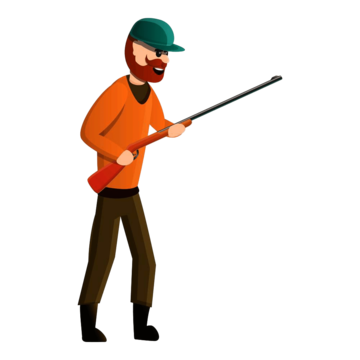
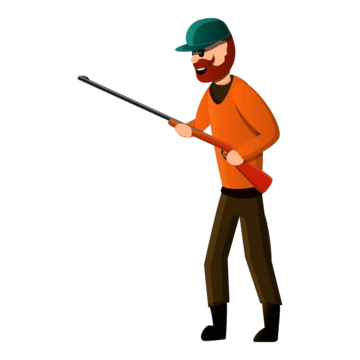
placed hunter and added bullet

Changed region(s): [[0.2139, 0.0306, 0.7944, 0.9778]]

diff --git a/04_AI/04_AI/main.cpp b/04_AI/04_AI/main.cpp
@@ -14,7 +14,7 @@
 #define GL_GLEXT_PROTOTYPES 1
 #define FIXED_TIMESTEP 0.0166666f
 #define PLATFORM_COUNT 11
-#define ENEMY_COUNT 3
+#define ENEMY_COUNT 4
 #define LEVEL1_WIDTH 20
 #define LEVEL1_HEIGHT 8
 #define LEFT_EDGE 5.0f
@@ -76,7 +76,8 @@ TILESET_FILEPATH[] = "assets/winterTileSheet1.png",
 //TILESET_FILEPATH[] = "assets/tileset.png",
 VULTURESHEET_FILEPATH[] = "assets/vulture_static.png",
 FOXSHEET_FILEPATH[] = "assets/fox_static.png",
-HUNTERSHEET_FILEPATH[] = "assets/hunter_static.png";
+HUNTERSHEET_FILEPATH[] = "assets/hunter_static.png",
+BULLETSHEET_FILEPATH[] = "assets/bullet.png";
 
 constexpr char BGM_FILEPATH[] = "assets/dooblydoo.mp3",
 SFX_FILEPATH[] = "assets/bounce.wav";
@@ -107,8 +108,8 @@ unsigned int LEVEL_1_DATA[] = {
     19, 0, 0, 0, 0, 0, 0, 0, 0, 0, 0, 0, 0, 0, 0, 0, 0, 0, 0, 19,
     19, 0, 0, 0, 14, 15, 16, 0, 0, 0, 0, 0, 0, 0, 0, 0, 0, 0, 0, 19,
     19, 0, 0, 0, 0, 0, 0, 0, 0, 0, 0, 0, 0, 0, 0, 0, 0, 0, 0, 19,
-    19, 0, 0, 0, 0, 0, 0, 1, 3, 0, 0, 0, 0, 0, 0, 0, 0, 0, 0, 19,
-    19, 2, 2, 2, 2, 2, 7, 8, 10, 11, 2, 2, 2, 2, 2, 2, 2, 2, 2, 19,
+    19, 0, 0, 0, 0, 0, 0, 1, 3, 0, 0, 0, 0, 0, 0, 1, 3, 0, 0, 19,
+    19, 2, 2, 2, 2, 2, 7, 8, 10, 11, 2, 2, 2, 2, 7, 8, 10, 11, 2, 19,
     19, 5, 5, 5, 5, 5, 5, 5, 5, 5, 5, 5, 5, 5, 5, 5, 5, 5, 5, 19
     
 };
@@ -247,6 +248,7 @@ void initialise()
     GLuint vulture_texture_id = load_texture(VULTURESHEET_FILEPATH);
     GLuint fox_texture_id = load_texture(FOXSHEET_FILEPATH);
     GLuint hunter_texture_id = load_texture(HUNTERSHEET_FILEPATH);
+    GLuint bullet_texture_id = load_texture(BULLETSHEET_FILEPATH);
     
     // ----- VULTURE ----- //
     g_game_state.enemies[0] = Entity(vulture_texture_id, 1.0f, 1.0f, 1.0f, ENEMY, FLYER, IDLE);
@@ -261,8 +263,12 @@ void initialise()
 //    g_game_state.enemies[1].set_scale(glm::vec3(968/332.f, 1.0f, 0.0f));
 
     // ----- HUNTER ----- //
-    g_game_state.enemies[2] = Entity(hunter_texture_id, 1.0f, 1.0f, 1.0f, ENEMY, WALKER, IDLE);
-    g_game_state.enemies[2].set_position(glm::vec3(0.0f, -0.0f, 0.0f));
+    g_game_state.enemies[2] = Entity(hunter_texture_id, 1.0f, 1.0f, 1.0f, ENEMY, SHOOTER, IDLE);
+    g_game_state.enemies[2].set_position(glm::vec3(15.5f, -4.0f, 0.0f));
+    
+    // ----- BULLET ----- //
+    g_game_state.enemies[3] = Entity(bullet_texture_id, 2.0f, 0.3f, 0.3f, ENEMY, WALKER, IDLE);
+    g_game_state.enemies[3].set_position(glm::vec3(15.5f, -4.0f, 0.0f));
 
 
     // ----- AUDIO STUFF ----- //

diff --git a/04_AI/04_AI/Entity.cpp b/04_AI/04_AI/Entity.cpp
@@ -182,7 +182,7 @@ void const Entity::check_collision_y(Entity *collidable_entities, int collidable
     for (int i = 0; i < collidable_entity_count; i++)
     {
         Entity *collidable_entity = &collidable_entities[i];
-        if (collidable_entity->m_is_active) {
+        if (collidable_entity->m_is_active && m_is_active) {
             if (check_collision(collidable_entity))
             {
                 float y_distance = fabs(m_position.y - collidable_entity->m_position.y);
@@ -230,7 +230,7 @@ void const Entity::check_collision_x(Entity *collidable_entities, int collidable
     {
         Entity *collidable_entity = &collidable_entities[i];
         
-        if (collidable_entity->m_is_active) {
+        if (collidable_entity->m_is_active && m_is_active) {
             if (check_collision(collidable_entity))
             {
                 float x_distance = fabs(m_position.x - collidable_entity->m_position.x);

diff --git a/04_AI/04_AI/Entity.h b/04_AI/04_AI/Entity.h
@@ -5,7 +5,7 @@
 #include "glm/glm.hpp"
 #include "ShaderProgram.h"
 enum EntityType { PLATFORM, PLAYER, ENEMY  };
-enum AIType     { WALKER, GUARD, FLYER, SHOOTER };
+enum AIType     { WALKER, GUARD, FLYER, SHOOTER, BULLET };
 enum AIState    { WALKING, IDLE, ATTACKING };
 
 
